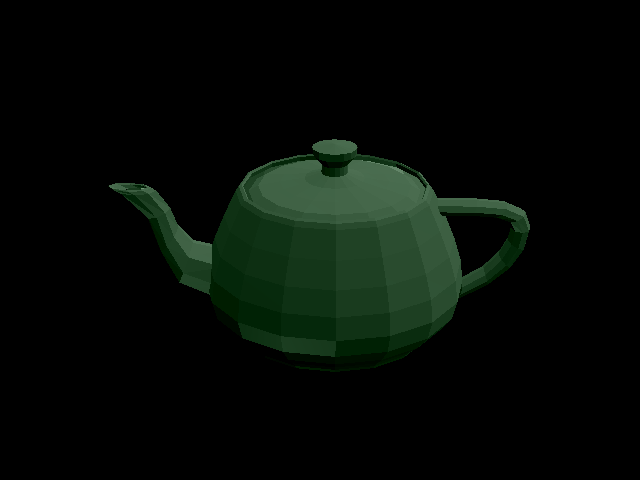
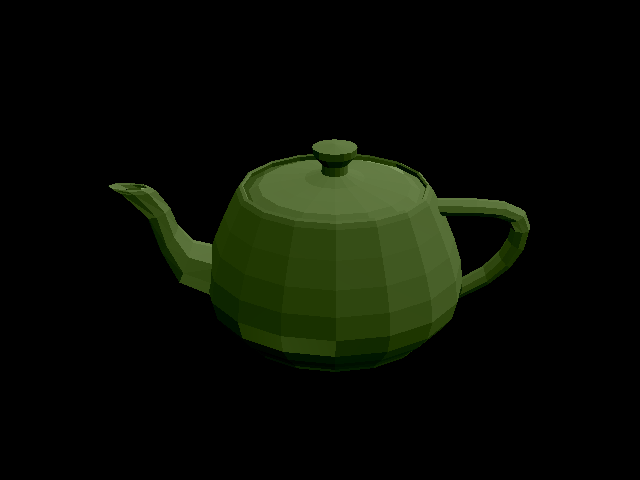
parse normals

Changed region(s): [[0.375, 0.2812, 0.8438, 0.5625], [0.25, 0.4688, 0.3438, 0.5625], [0.1562, 0.375, 0.2812, 0.4375]]

diff --git a/src/main.cpp b/src/main.cpp
@@ -50,11 +50,12 @@ std::vector<std::shared_ptr<shape>> read_model() {
   double diffusion = random(0, 1);
   std::vector<std::shared_ptr<shape>> result;
   std::vector<double_vector> vertexes;
+  std::vector<double_vector> normals;
   std::ifstream f("models/utah.obj");
   std::string line;
   if (f.is_open()) {
     while (getline(f, line)) {
-      if (line[0] == 'v') {
+      if (line[0] == 'v' && line[1] != 't') {
         std::vector<double> holder;
         std::istringstream s(line);
         for (std::string l; std::getline(s, l, ' ');) {
@@ -62,24 +63,34 @@ std::vector<std::shared_ptr<shape>> read_model() {
             holder.push_back(std::stod(l));
           }
         }
-        vertexes.push_back(double_vector(holder[0], holder[1], holder[2]));
+        if (line[1] == 'n') {
+          normals.push_back(double_vector(holder[0], holder[1], holder[2]));
+        } else {
+          vertexes.push_back(double_vector(holder[0], holder[1], holder[2]));
+        }
         holder.clear();
       } else if (line[0] == 'f') {
+        assert(vertexes.size() == normals.size() &&
+               "Numbers of normals is not the same as number of vectors");
         std::vector<double_vector> holder;
+        std::vector<double_vector> normals_;
         std::istringstream s(line);
         for (std::string l; std::getline(s, l, ' ');) {
           if (l != "" && l[0] != 'f') {
             std::istringstream inner(l);
             for (std::string i; std::getline(inner, i, '\\');) {
               holder.push_back(vertexes[std::stoi(i) - 1]);
+              normals_.push_back(normals[std::stoi(i) - 1]);
               break;
             }
           }
         }
-        std::shared_ptr<shape> triangle_(new triangle(
-            holder[0], holder[1], holder[2], ambient, diffusion, alpha));
+        std::shared_ptr<shape> triangle_(
+            new triangle(holder[0], holder[1], holder[2], normals_, ambient,
+                         diffusion, alpha));
         result.push_back(triangle_);
         holder.clear();
+        normals_.clear();
       }
     }
     f.close();

diff --git a/src/triangle.cpp b/src/triangle.cpp
@@ -4,11 +4,13 @@
 #include "vector.h"
 #include <cassert>
 #include <cmath>
+#include <vector>
 
 triangle::triangle(double_vector A, double_vector B, double_vector C,
-                   double_vector amb, double dif, double al)
-    : shape(amb, dif, al), A_(A), B_(B), C_(C), AB_(B - A), AC_(C - A),
-      normal_((AB_ % AC_).get_unit_vector()) {}
+                   std::vector<double_vector> const &normals, double_vector amb,
+                   double dif, double al)
+    : shape(amb, dif, al), A_(A), B_(B), C_(C), normals_(normals), AB_(B - A),
+      AC_(C - A), normal_((AB_ % AC_).get_unit_vector()) {}
 
 double triangle::intersect(ray const &ray) const {
   double a = ray.direction() & normal_;

diff --git a/src/triangle.h b/src/triangle.h
@@ -2,11 +2,13 @@
 #include "ray.h"
 #include "shapes.h"
 #include "vector.h"
+#include <vector>
 
 class triangle : public shape {
 public:
   triangle(double_vector A, double_vector B, double_vector C,
-           double_vector ambient, double diffusion, double alpha);
+           std::vector<double_vector> const &normals, double_vector ambient,
+           double diffusion, double alpha);
   double intersect(ray const &ray) const;
   double_vector normal(double_vector const &P) const;
 
@@ -14,6 +16,7 @@ private:
   double_vector A_;
   double_vector B_;
   double_vector C_;
+  std::vector<double_vector> normals_;
   double_vector AB_;
   double_vector AC_;
   double_vector normal_;
